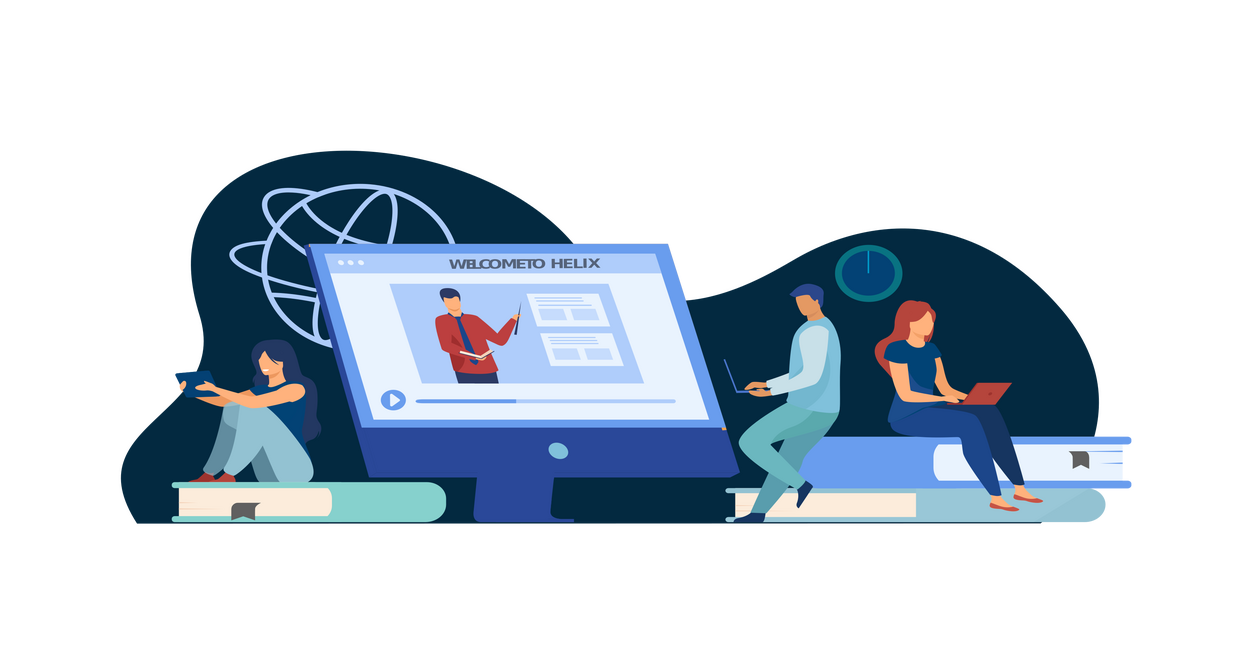
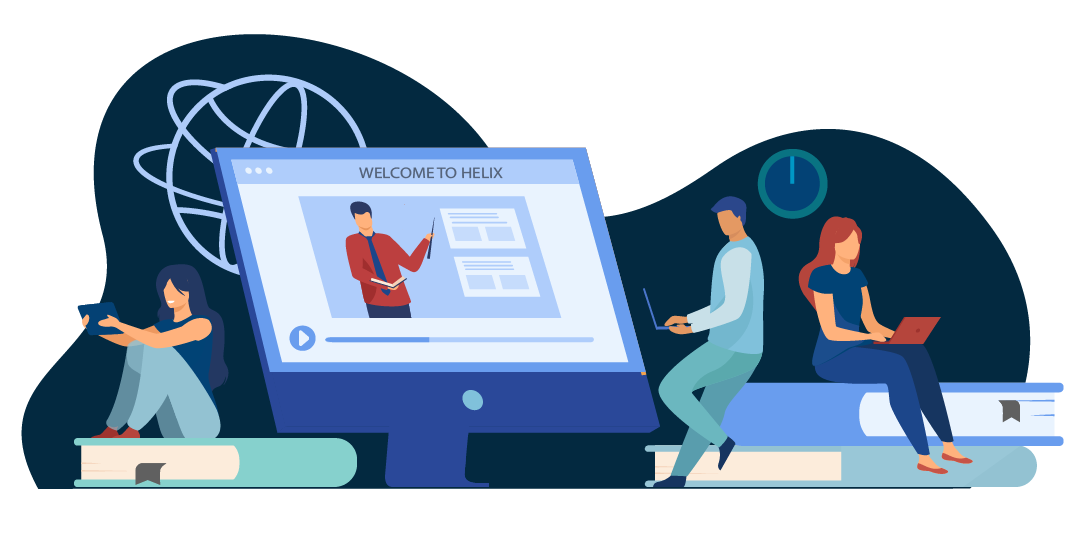
Fix live stream alignments

diff --git a/src/pages/LiveStream.jsx b/src/pages/LiveStream.jsx
@@ -43,11 +43,14 @@ export default function Home() {
     <>
       <BaseLayout>
         <div className="card-body d-md-flex align-items-center d-block">
-          <div id="no-stream" style={{ display: display.image }}>
+          <div
+            className="container-fluid text-center"
+            id="no-stream"
+            style={{ display: display.image }}
+          >
             <img
-              className="img-fluid px-md-3"
+              className="img-fluid no-stream h-auto w-55"
               src={NoLiveStream}
-              height={400}
               alt=""
             />
             <h5 className="text-center stream-text text-secondary">
@@ -63,7 +66,7 @@ export default function Home() {
               hasVideo={true}
             />
           </div>
-          <Chat roomKey="123"/>
+          <Chat roomKey="123" />
         </div>
       </BaseLayout>
     </>

diff --git a/src/assets/css/style.scss b/src/assets/css/style.scss
@@ -78,7 +78,9 @@ a {
   display: none;
 }
 
-
+.w-55{
+  width: 55%;
+}
 
 .customButton {
   background-color: var(--button-bg-color);
@@ -206,6 +208,10 @@ button {
 @media (max-width: 767px) {
   .iframe-height {
     height: 50vh;
+  }
+  .no-stream{
+    height: auto;
+    width: 100%;
   }
   .stream-text {
     font-size: 15px;
